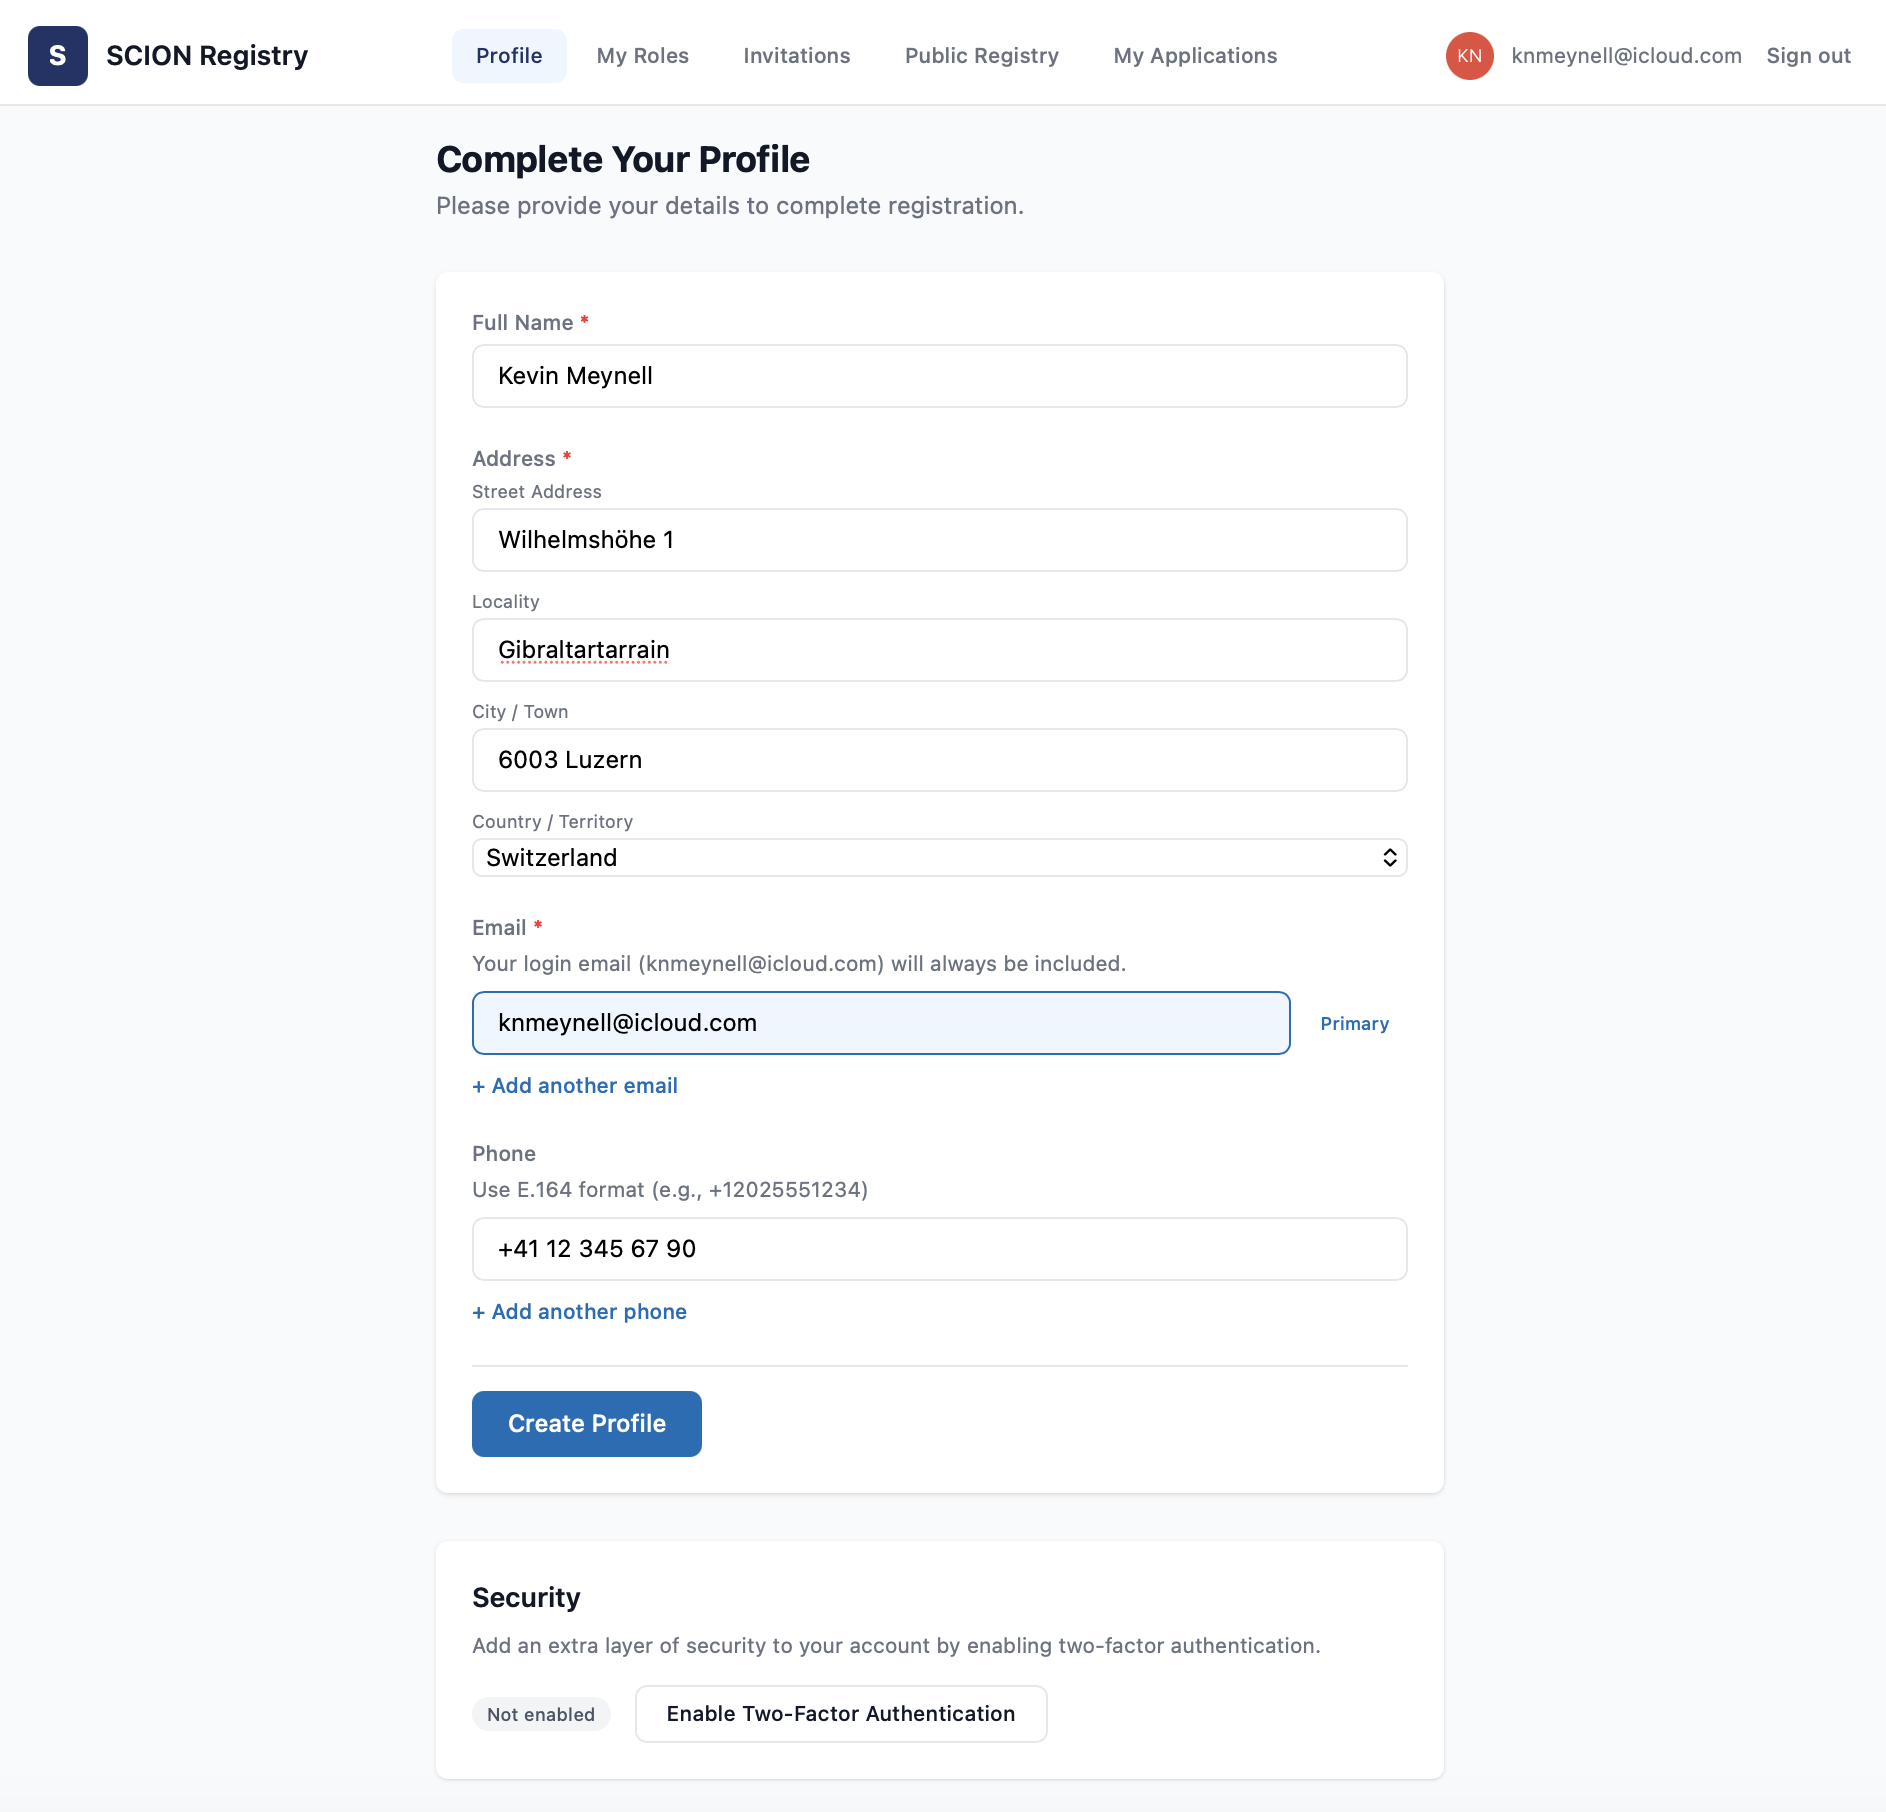
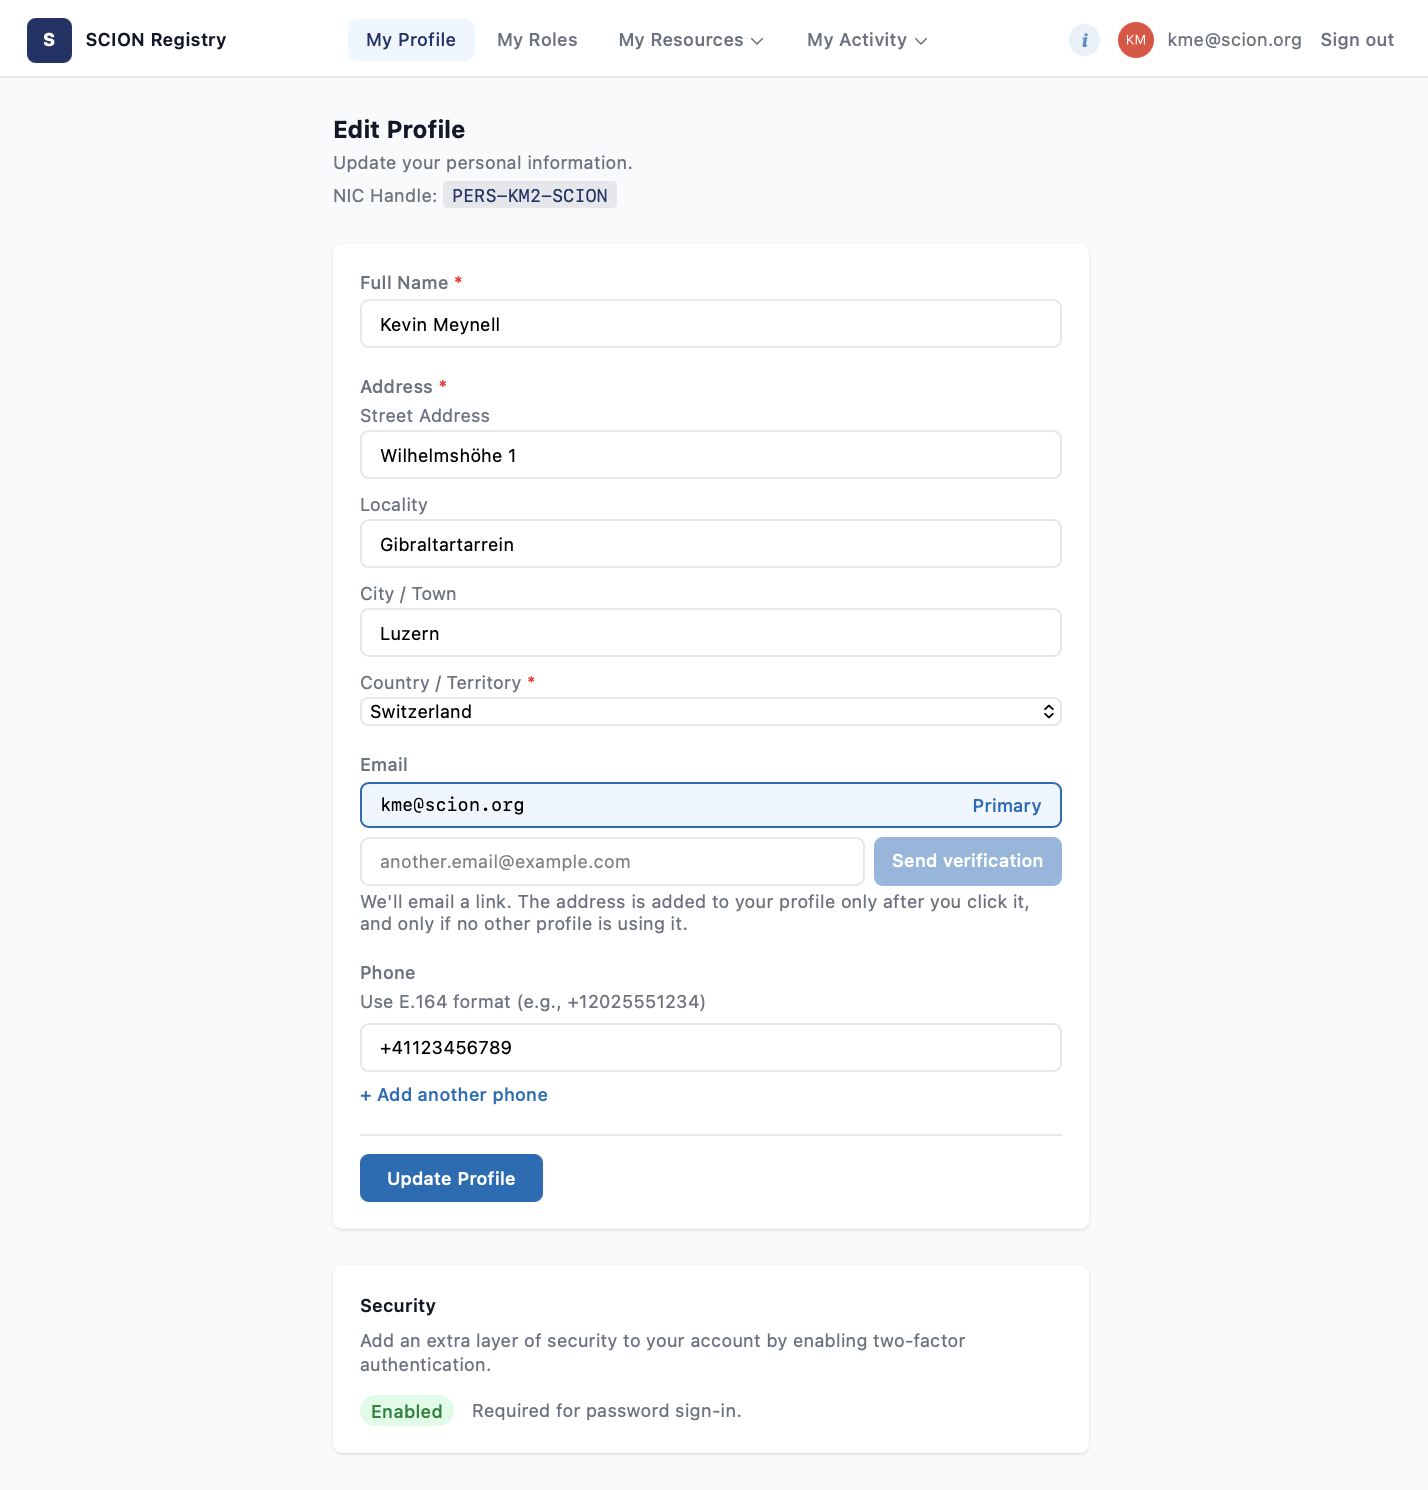
docs: registry tutorial update (#4961)
Tutorial updated to reflect design and workflow changes.

diff --git a/doc/tutorials/registry.rst b/doc/tutorials/registry.rst
@@ -20,19 +20,29 @@ The SCION Registry portal can be found at https://registry.scion.org
 
 **Step 1**:
 
+Select 'Sign in' on the portal menu.
+
 If you don’t already have an account, then click on ‘Create an account’. Enter the email address and password that you wish to use as your personal login. You can later create other personal accounts and role profiles and assign them permissions to manage your SCION number resources and organizational details.
+
+Alternatively, if you have a Google account, you may use this to sign-in.
 
 .. figure:: registry/register.png
    :width: 100 %
    :figwidth: 100 %
 
-You will then be sent an email to the email address you provided, asking you to verify it:
+If you're creating an account, you'll then be asked to secure it by generating a two-factor authentication code. Scan the QR code using your preferred authenticator app, and then enter the provided one-time code:
 
-.. figure:: registry/verify.png
+.. figure:: registry/2fa.png
    :width: 100 %
    :figwidth: 100 %
 
-Verify your email address by clicking on ‘Verify link’ in the email:
+Make a note of the recovery code as this will be needed if you ever need to log in without your authenticator app.
+
+.. figure:: registry/recovery-code.png
+   :width: 100 %
+   :figwidth: 100 %
+
+You will also be sent an email to the email address you provided, asking you to verify it by clicking on 'Verify link' in the email:
 
 .. figure:: registry/verify-link.png
    :width: 100 %
@@ -48,19 +58,25 @@ Return to the login screen, enter your email address and password, and click ‘
    :width: 100 %
    :figwidth: 100 %
 
+Verify your identity with the one-time code shown in your authenticator app:
+
+.. figure:: registry/verify-identity.png
+   :width: 100 %
+   :figwidth: 100 %
+
 **Step 2**:
 
-Upon successful login, you can now complete and submit your personal profile and enable two-factor authentication. Please note that your personal information will not be displayed on the public registry website.
+Upon successful login, you can now complete and submit your Personal profile and enable two-factor authentication. Please note that your personal information will not be displayed on the public registry website.
 
 .. figure:: registry/profile.png
    :width: 100 %
    :figwidth: 100 %
 
-Once your personal profile has been created, you will be assigned a NIC handle (e.g. PERS-KM32-SCION).
+Once your personal Profile has been created, you will be assigned a NIC handle (e.g. PERS-KM2-SCION). You can return to your profile and edit it from ``My Applications`` in the top menu.
 
 **Step 3**:
 
-The next step is to create your Organization profile. Click on ‘My Applications’ in the top menu:
+The next step is to create your Organization profile. Click on ``My Activity`` then ``Applications`` in the top menu:
 
 .. figure:: registry/applications.png
    :width: 100 %
@@ -68,9 +84,23 @@ The next step is to create your Organization profile. Click on ‘My Application
 
 Then click on ``Apply for Organization`` to complete and submit your Organization profile. Please note the organization information may be accessible on the public registry website, so it is advisable to use a corporate postal address, telephone number, and email address.
 
-You need to agree to the Terms and Conditions and to also select a personal profile to be linked to the *Admin* and *Technical* (and optionally *Abuse*) Roles. In this example, there is currently only one personal profile available, but additional personal accounts and role profiles may be created or linked later.
+.. figure:: registry/organization-1.png
+   :width: 100 %
+   :figwidth: 100 %
 
-.. figure:: registry/organization.png
+You need to indicate whether your organization is a SCION Association Member, whether you wish to subscribe to the SCION mailing list, and you must agree to the Terms and Conditions.
+
+You also need to provide email addresses for the *Admin Contact* and *Technical Contact*. The same email address may be used - which may also be the same as the organizational email address - but using a personal email address is not recommended as these addresses are used to create the Admin and Technical roles to which different Personal profiles may be linked.
+
+The person creating the Organization profile will automatically become a *Maintainer*, *Admin Contact* and *Tech Contact* for this, but you can also link additional Personal profiles to each of these roles. You can invite someone to create an account by entering their email address, or if they have already created a Personal profile, by searching for and entering their NIC handle.
+
+.. figure:: registry/organization-2.png
+   :width: 100 %
+   :figwidth: 100 %
+
+You can also invite additional contacts at any by clicking on ``My Activity`` then ``Invitations`` in the top menu:
+
+.. figure:: registry/invitations.png
    :width: 100 %
    :figwidth: 100 %
 
@@ -92,6 +122,12 @@ If you click on ``My Roles`` in the top menu, you can view the roles (*Admin Con
    :width: 100 %
    :figwidth: 100 %
 
+You can further check your Organization(s) by clicking on ``My Resources`` then ``Organizations`` in the top menu:
+
+.. figure:: registry/my-orgs.png
+   :width: 100 %
+   :figwidth: 100 %
+
 Requesting SCION AS numbers
 ---------------------------
 
@@ -107,7 +143,13 @@ Please note that assignments incur fees upon approval (starting from 1 January 2
 
 **Step 1**:
 
-To apply for a SCION AS number, click on ``My Applications`` in the top menu, followed by ``Apply for SCION AS``. Then complete the request form:
+To apply for a SCION AS number, click on ``My Activity`` then ``Applications`` in the top menu:
+
+.. figure:: registry/applications.png
+   :width: 100 %
+   :figwidth: 100 %
+
+Then click on ``Apply for AS`` and complete the request form:
 
 .. figure:: registry/apply-for-as.png
    :width: 100 %
@@ -129,9 +171,9 @@ If you are requesting a block of SCION AS numbers, please select ``SCION-Native 
 
 **Step 3**:
 
-The remaining step is to assign the *Admin Contacts* and *Technical Contacts*:
+The remaining step is to assign the *Admin Contacts* and *Technical Contacts*. You must agree to the *Contract for SCION Registry Services*:
 
-.. figure:: registry/contacts.png
+.. figure:: registry/as-contacts.png
    :width: 100 %
    :figwidth: 100 %
 
@@ -153,7 +195,7 @@ Once payment has been received by the SCION Association, or if no payment is due
    :width: 100 %
    :figwidth: 100 %
 
-You can further check your SCION AS number assignments by clicking on ‘Public Registry’ in the top menu, and then ‘ASes’:
+You can further check your SCION AS number assignments by clicking on ``My Resources`` then ``SCION AS numbers`` in the top menu:
 
 .. figure:: registry/as-registered.png
    :width: 100 %
@@ -166,13 +208,31 @@ An ISD number is used to identify a group of SCION ASes that share a common purp
 
 However, if your organization is a Voting Member of an ISD and is designated to be the holder of the ISD number required to identify it, you can also use the SCION Registry portal to apply for one in accordance with the `SCION Registry Policy <https://www.scion.org/wp-content/uploads/2025/10/SCION-Registry-Policy.pdf>`_.
 
-To apply for a ISD number, click on ``My Applications`` in the top menu, followed by ``Apply for ISD``. Then complete the request form:
+To apply for an ISD number, click on ``My Activity`` then ``Applications`` in the top menu:
+
+.. figure:: registry/applications.png
+   :width: 100 %
+   :figwidth: 100 %
+
+Then click on ``Apply for ISD`` and complete the request form:
 
 .. figure:: registry/apply-for-isd.png
    :width: 100 %
    :figwidth: 100 %
 
+The ISD's Trusted Root Configuration (TRC) can also be referenced as a link or uploaded to the registry.
+
+The remaining step is to assign the *Admin Contacts* and *Technical Contacts*. You must also agree to the *Contract for SCION Registry Services*:
+
+.. figure:: registry/isd-contacts.png
+   :width: 100 %
+   :figwidth: 100 %
+
 When your ISD number application has been submitted, you will receive a message that this is pending. Applications must be approved by the SCION Association, which will normally happen within 1-3 working days.
+
+.. figure:: registry/isd-pending.png
+   :width: 100 %
+   :figwidth: 100 %
 
 Once your ISD number application has been checked and approved by the SCION Association, you will receive an email notification and your application will now show as *Approved, awaiting payment* if payment is due.
 
@@ -183,5 +243,11 @@ Once your ISD number application has been checked and approved by the SCION Asso
 Once payment has been received by the SCION Association, or if no payment is due, then your application will show as ‘Approved’.
 
 .. figure:: registry/isd-approved.png
+   :width: 100 %
+   :figwidth: 100 %
+
+You can further check your ISD number assignments by clicking on ``My Resources`` then ``ISD numbers`` in the top menu:
+
+.. figure:: registry/isd-registered.png
    :width: 100 %
    :figwidth: 100 %
